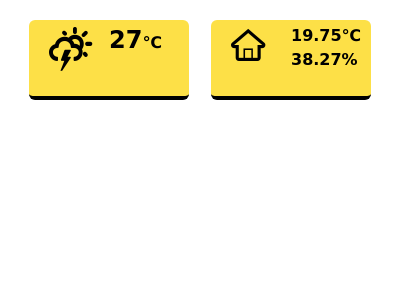
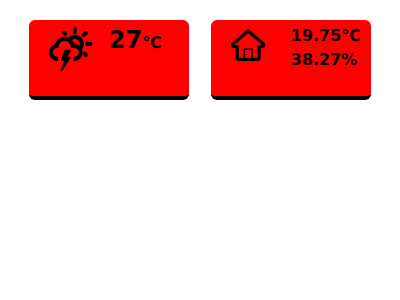
gggg

Changed region(s): [[0.51, 0.06, 0.93, 0.33], [0.06, 0.06, 0.48, 0.33]]

diff --git a/public/main.css b/public/main.css
@@ -40,3 +40,7 @@
     -moz-osx-font-smoothing: grayscale; */
 
 }
+
+.red {
+    background-color: red;
+}

diff --git a/getImage.py b/getImage.py
@@ -2,19 +2,41 @@
 
 import os
 from PIL import Image
-from inky.auto import auto
+from inky import InkyWHAT
 import requests
 from io import BytesIO
 
 # Get the current path
 PATH = os.path.dirname(__file__)
 
-inky_display = auto(ask_user=True, verbose=True)
+inky_display = InkyWHAT('yellow')
 
 
 
+url = 'http://192.168.3.33:1337/weather/?gas_index=0&gas_resistance=12946860.58570794&heat_stable=false&humidity=38.272&meas_index=0&pressure=1027.39&status=32&temperature=19.75'
+response = requests.get(url)
+img = Image.open(BytesIO(response.content)).convert("RGB")
+w, h = img.size
+h_new = 300
+w_new = int((float(w) / h) * h_new)
+w_cropped = 400
+img = img.resize((w_new, h_new), resample=Image.LANCZOS)
+x0 = (w_new - w_cropped) / 2
+x1 = x0 + w_cropped
+y0 = 0
+y1 = h_new
+img = img.crop((x0, y0, x1, y1))
+pal_img = Image.new("P", (1, 1),0)
+palette = [255, 255, 255, 0, 0, 0, 255, 0, 0]
+NUM_ENTRIES_IN_PILLOW_PALETTE = 256
+num_bands = len("RGB")
+num_entries_in_palettedata = len(palette) // num_bands
+palette.extend(palette[:num_bands]
+                   * (NUM_ENTRIES_IN_PILLOW_PALETTE
+                      - num_entries_in_palettedata))
+pal_img.putpalette(palette)
+img = img.convert("RGB").quantize(palette=pal_img, dither=0)
 
-response = requests.get("http://192.168.3.33:1337/weather/?gas_index=0&gas_resistance=12946860.58570794&heat_stable=false&humidity=38.272&meas_index=0&pressure=1027.39&status=32&temperature=19.75")
-img = Image.open(BytesIO(response.content))
+inky_display.set_border(inky_display.WHITE)
 inky_display.set_image(img)
 inky_display.show()
